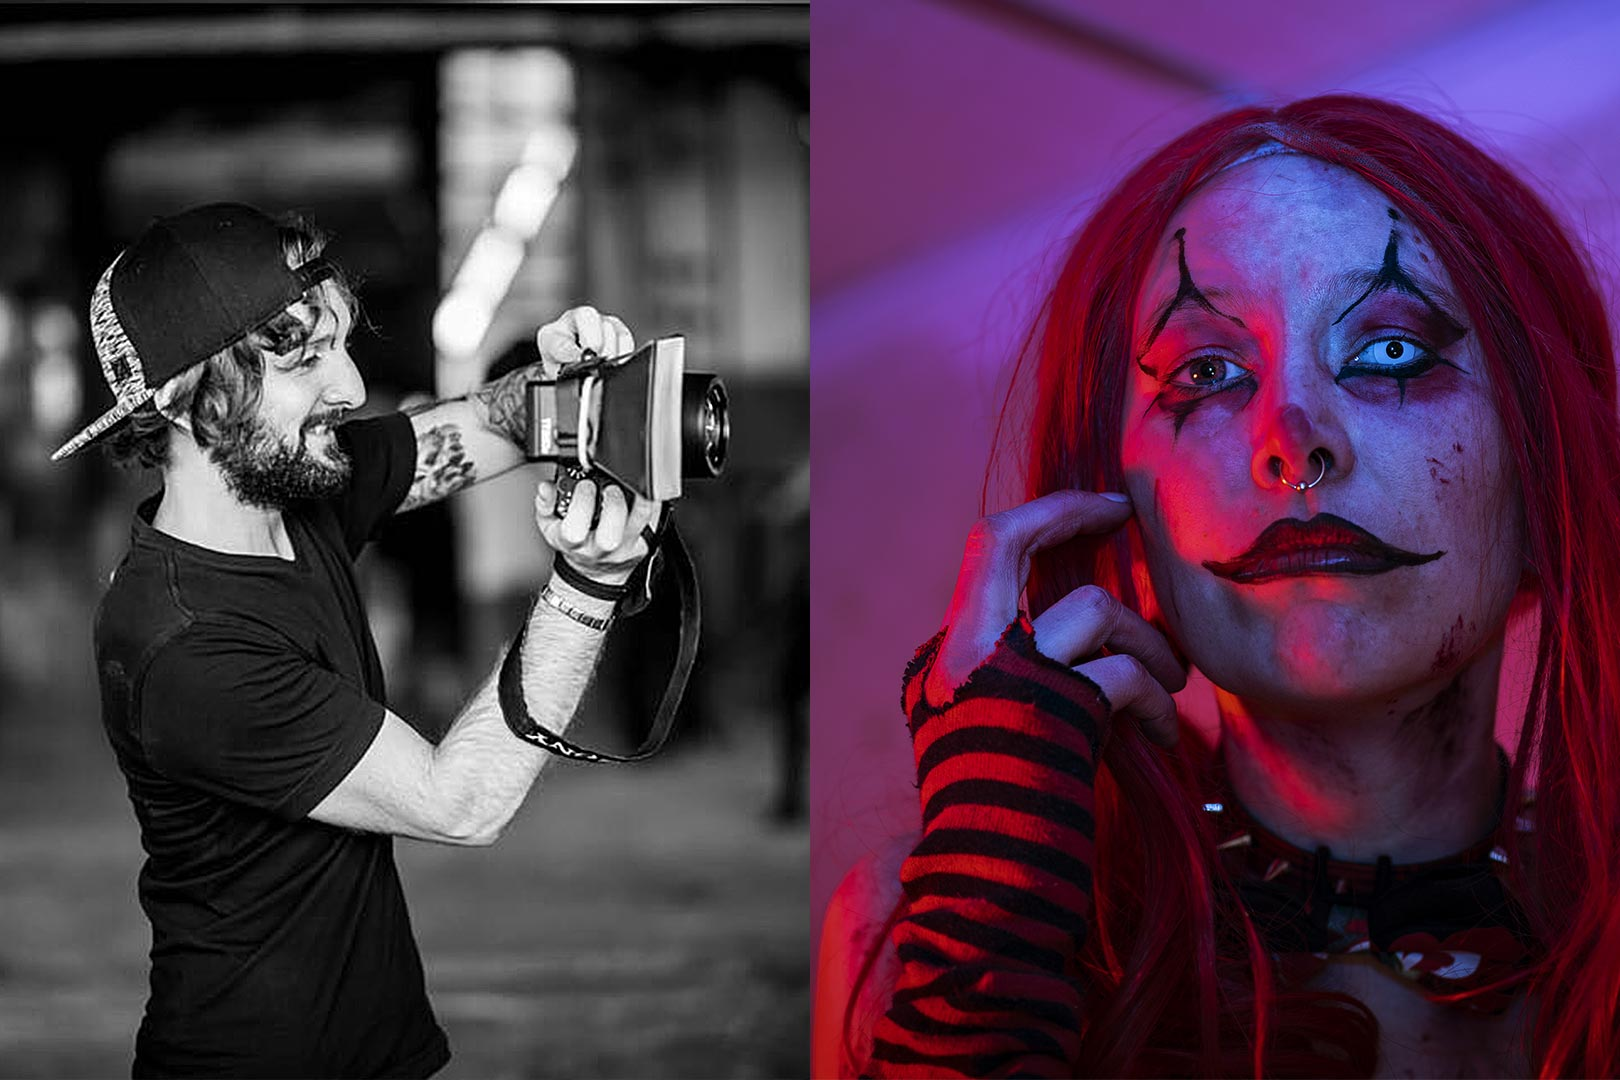
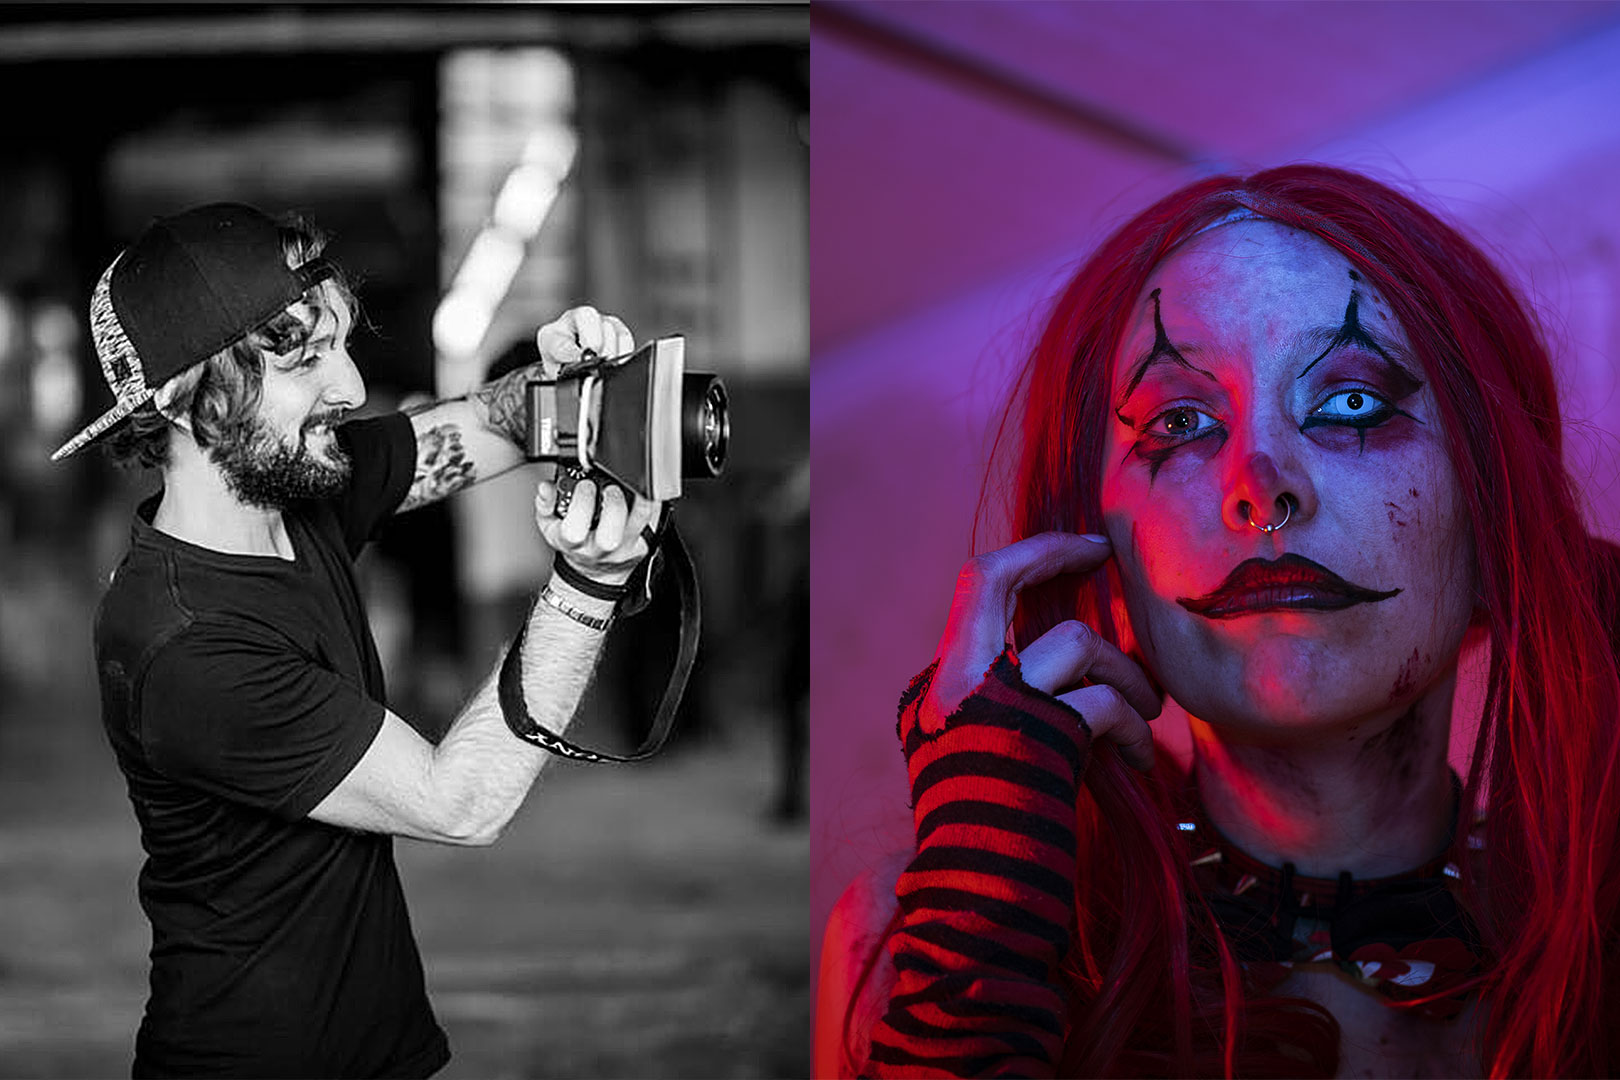
Trabajo con los tamaños de las imagenes para SEO.

Changed region(s): [[0.4938, 0.0, 1.0, 1.0], [0.4938, 0.825, 0.5247, 0.8556]]

diff --git a/css/style.css b/css/style.css
@@ -74,7 +74,7 @@ a {
 
 .parallax, .parallaxDos, .parallaxTres, .parallaxCuatro, .parallaxCinco, .parallaxSeis, .parallaxSiete, .parallaxOcho {
   background-color: black;
-  background-image: linear-gradient(0deg, rgba(0, 0, 0, 0.8) 0%, rgba(0, 0, 0, 0.17) 50%, rgba(0, 0, 0, 0.8) 100%), url(../images/parallax-1.jpg);
+  background-image: linear-gradient(0deg, rgba(0, 0, 0, 0.8) 0%, rgba(0, 0, 0, 0.17) 50%, rgba(0, 0, 0, 0.8) 100%), url(../images/parallax-1-1920.jpg);
   background-attachment: fixed;
   background-size: cover;
   background-position: center;
@@ -82,25 +82,25 @@ a {
   min-height: 90vh; }
 
 .parallaxDos {
-  background-image: linear-gradient(0deg, rgba(0, 0, 0, 0.8) 0%, rgba(0, 0, 0, 0.17) 50%, rgba(0, 0, 0, 0.8) 100%), url(../images/parallax-2.jpg); }
+  background-image: linear-gradient(0deg, rgba(0, 0, 0, 0.8) 0%, rgba(0, 0, 0, 0.17) 50%, rgba(0, 0, 0, 0.8) 100%), url(../images/parallax-2-1920.jpg); }
 
 .parallaxTres {
-  background-image: linear-gradient(0deg, rgba(0, 0, 0, 0.8) 0%, rgba(0, 0, 0, 0.17) 50%, rgba(0, 0, 0, 0.8) 100%), url(../images/parallax-3.jpg); }
+  background-image: linear-gradient(0deg, rgba(0, 0, 0, 0.8) 0%, rgba(0, 0, 0, 0.17) 50%, rgba(0, 0, 0, 0.8) 100%), url(../images/parallax-3-1920.jpg); }
 
 .parallaxCuatro {
-  background-image: linear-gradient(0deg, rgba(0, 0, 0, 0.8) 0%, rgba(0, 0, 0, 0.17) 50%, rgba(0, 0, 0, 0.8) 100%), url(../images/parallax-4.jpg); }
+  background-image: linear-gradient(0deg, rgba(0, 0, 0, 0.8) 0%, rgba(0, 0, 0, 0.17) 50%, rgba(0, 0, 0, 0.8) 100%), url(../images/parallax-4-1920.jpg); }
 
 .parallaxCinco {
-  background-image: linear-gradient(0deg, rgba(0, 0, 0, 0.8) 0%, rgba(0, 0, 0, 0.17) 50%, rgba(0, 0, 0, 0.8) 100%), url(../images/parallax-5.jpg); }
+  background-image: linear-gradient(0deg, rgba(0, 0, 0, 0.8) 0%, rgba(0, 0, 0, 0.17) 50%, rgba(0, 0, 0, 0.8) 100%), url(../images/parallax-5-1920.jpg); }
 
 .parallaxSeis {
-  background-image: linear-gradient(0deg, rgba(0, 0, 0, 0.8) 0%, rgba(0, 0, 0, 0.17) 50%, rgba(0, 0, 0, 0.8) 100%), url(../images/parallax-6.jpg); }
+  background-image: linear-gradient(0deg, rgba(0, 0, 0, 0.8) 0%, rgba(0, 0, 0, 0.17) 50%, rgba(0, 0, 0, 0.8) 100%), url(../images/parallax-6-1920.jpg); }
 
 .parallaxSiete {
-  background-image: linear-gradient(0deg, rgba(0, 0, 0, 0.8) 0%, rgba(0, 0, 0, 0.17) 50%, rgba(0, 0, 0, 0.8) 100%), url(../images/parallax-7.jpg); }
+  background-image: linear-gradient(0deg, rgba(0, 0, 0, 0.8) 0%, rgba(0, 0, 0, 0.17) 50%, rgba(0, 0, 0, 0.8) 100%), url(../images/parallax-7-1920.jpg); }
 
 .parallaxOcho {
-  background-image: linear-gradient(0deg, rgba(0, 0, 0, 0.8) 0%, rgba(0, 0, 0, 0.17) 50%, rgba(0, 0, 0, 0.8) 100%), url(../images/parallax-1.jpg); }
+  background-image: linear-gradient(0deg, rgba(0, 0, 0, 0.8) 0%, rgba(0, 0, 0, 0.17) 50%, rgba(0, 0, 0, 0.8) 100%), url(../images/parallax-1-1920.jpg); }
 
 .gridLayout {
   display: grid;
@@ -116,6 +116,7 @@ main {
   grid-area: footer; }
 
 header .headerBackground {
+  height: 65px;
   background: rgba(0, 0, 0, 0.7);
   z-index: 2; }
 
@@ -554,8 +555,22 @@ header nav a .icon-service-bag {
     font-size: 2.8rem; }
   .formatoLogo {
     width: 120px; }
+  .parallax, .parallaxDos, .parallaxTres, .parallaxCuatro, .parallaxCinco, .parallaxSeis, .parallaxSiete, .parallaxOcho {
+    background-image: linear-gradient(0deg, rgba(0, 0, 0, 0.8) 0%, rgba(0, 0, 0, 0.17) 50%, rgba(0, 0, 0, 0.8) 100%), url(../images/parallax-1-1024.jpg); }
   .parallaxDos {
     background-image: linear-gradient(0deg, rgba(0, 0, 0, 0.8) 0%, rgba(0, 0, 0, 0.17) 50%, rgba(0, 0, 0, 0.8) 100%), url(../images/maxi_perfil_parallax.jpg); }
+  .parallaxTres {
+    background-image: linear-gradient(0deg, rgba(0, 0, 0, 0.8) 0%, rgba(0, 0, 0, 0.17) 50%, rgba(0, 0, 0, 0.8) 100%), url(../images/parallax-3-1024.jpg); }
+  .parallaxCuatro {
+    background-image: linear-gradient(0deg, rgba(0, 0, 0, 0.8) 0%, rgba(0, 0, 0, 0.17) 50%, rgba(0, 0, 0, 0.8) 100%), url(../images/parallax-4-1024.jpg); }
+  .parallaxCinco {
+    background-image: linear-gradient(0deg, rgba(0, 0, 0, 0.8) 0%, rgba(0, 0, 0, 0.17) 50%, rgba(0, 0, 0, 0.8) 100%), url(../images/parallax-5-1024.jpg); }
+  .parallaxSeis {
+    background-image: linear-gradient(0deg, rgba(0, 0, 0, 0.8) 0%, rgba(0, 0, 0, 0.17) 50%, rgba(0, 0, 0, 0.8) 100%), url(../images/parallax-6-1024.jpg); }
+  .parallaxSiete {
+    background-image: linear-gradient(0deg, rgba(0, 0, 0, 0.8) 0%, rgba(0, 0, 0, 0.17) 50%, rgba(0, 0, 0, 0.8) 100%), url(../images/parallax-7-1024.jpg); }
+  .parallaxOcho {
+    background-image: linear-gradient(0deg, rgba(0, 0, 0, 0.8) 0%, rgba(0, 0, 0, 0.17) 50%, rgba(0, 0, 0, 0.8) 100%), url(../images/parallax-1-1024.jpg); }
   .copyright {
     letter-spacing: 0px; }
   .contamediact {
@@ -565,7 +580,13 @@ header nav a .icon-service-bag {
     display: none; }
   .posicionDer {
     padding: 5%;
-    background-color: rgba(0, 0, 0, 0.75); }
+    background-color: rgba(0, 0, 0, 0.75);
+    align-items: center; }
+    .posicionDer p {
+      font-size: 1.4rem;
+      letter-spacing: 1px;
+      line-height: 19px;
+      text-align: justify; }
   /* fin de index */
   /* galeria */
   .bloqueImgGaleria .capa {
@@ -606,7 +627,7 @@ header nav a .icon-service-bag {
       letter-spacing: 1px;
       border: solid 1px white; } }
 
-@media only screen and (max-width: 992px) {
+@media only screen and (max-width: 991px) {
   .posicionIzq img {
     display: none; }
   .posicionIzq h2 {

diff --git a/index.html b/index.html
@@ -21,7 +21,7 @@
             <nav class="navbar navbar-expand-lg navbar-dark headerBackground py-0">
                 <div class="container-xl px-5 px-xl-0 fs-4">
                     <a class="navbar-brand pe-sm-0 mx-auto me-md-auto" href="#"><img class="formatoLogo"
-                            src="./images/firmay-3-blanco.png" alt="Logo de marca"></a>
+                            src="./images/firmay-3-blanco-small.png" alt="Logo de marca"></a>
                     <button class="navbar-toggler" type="button" data-bs-toggle="collapse" data-bs-target="#navbarText"
                         aria-controls="navbarText" aria-expanded="false" aria-label="Toggle navigation">
                         <span class="navbar-toggler-icon"></span>
@@ -100,7 +100,7 @@
                         <div class="col-12 col-lg-6">
                             <div class="wow posicionIzq animate__animated animate__fadeIn">
                                 <h2 class="pb-1">Título</h2>
-                                <img src="./images/Line 2-corta-3px.png" alt="">
+                                <img src="./images/Line 2-corta-3px.png" alt="línea de subrayado">
                                 <p>Lorem ipsum dolor sit amet consectetur adipisicing elit. Debitis voluptatibus modi, doloremque iure nisi quo vero ratione inventore nostrum? Nobis quaerat corporis hic porro nihil. </p> 
                             </div>
                         </div>
@@ -118,25 +118,25 @@
                             </div>
                             <div class="carousel-inner img-zoom">
                                 <div class="carousel-item active">
-                                    <a href="./pages/galeria.html"><img src="./images/DSC05837_edit3.jpg" class="d-block w-100 carruselImg posicionRelativa" alt="Fotografía de álbum uno"></a>
+                                    <a href="./pages/galeria.html"><img src="./images/carrusel-1.jpg" class="d-block w-100 carruselImg posicionRelativa" alt="Fotografía de álbum uno"></a>
                                     <!-- <div class="carousel-caption d-none d-md-block">
                                         <p class="fs-3 pb-3">Click en la imagen para ver el álbum</p>
                                     </div> -->
                                 </div>
                                 <div class="carousel-item">
-                                    <a href="./pages/galeria.html"><img src="./images/DSC_3404_edit3.jpg" class="d-block w-100 carruselImg" alt="Fotografía de álbum dos"></a>
+                                    <a href="./pages/galeria.html"><img src="./images/carrusel-2.jpg" class="d-block w-100 carruselImg" alt="Fotografía de álbum dos"></a>
                                     <!-- <div class="carousel-caption d-none d-md-block">
                                         <h5 class="fs-3 pb-3">Second slide label</h5>
                                     </div> -->
                                 </div>
                                 <div class="carousel-item">
-                                    <a href="./pages/galeria.html"><img src="./images/DSC_3773_edit3.jpg" class="d-block w-100 carruselImg" alt="Fotografía de álbum tres"></a>
+                                    <a href="./pages/galeria.html"><img src="./images/carrusel-3.jpg" class="d-block w-100 carruselImg" alt="Fotografía de álbum tres"></a>
                                     <!-- <div class="carousel-caption d-none d-md-block">
                                         <h5 class="fs-3 pb-3">Third slide label</h5>
                                     </div> -->
                                 </div>
                                 <div class="carousel-item">
-                                    <a href="./pages/galeria.html"><img src="./images/DSC_8051_edit3.jpg" class="d-block w-100 carruselImg" alt="Fotografía de álbum cuatro"></a>
+                                    <a href="./pages/galeria.html"><img src="./images/carrusel-4.jpg" class="d-block w-100 carruselImg" alt="Fotografía de álbum cuatro"></a>
                                     <!-- <div class="carousel-caption d-none d-md-block">
                                         <h5 class="fs-3 pb-3">Third slide label</h5>
                                     </div> -->

diff --git a/pages/galeria.html b/pages/galeria.html
@@ -20,7 +20,7 @@
         <div class="fixed-top">
             <nav class="navbar navbar-expand-lg navbar-dark headerBackground py-0">
                 <div class="container-xl fs-4 px-5 px-xl-0">
-                    <a class="navbar-brand pe-sm-0 mx-auto me-md-auto" href="../index.html"><img class="formatoLogo" src="../images/firmay-3-blanco.png" alt="Logo"></a>
+                    <a class="navbar-brand pe-sm-0 mx-auto me-md-auto" href="../index.html"><img class="formatoLogo" src="../images/firmay-3-blanco-small.png" alt="Logo"></a>
                     <button class="navbar-toggler" type="button" data-bs-toggle="collapse" data-bs-target="#navbarText" aria-controls="navbarText" aria-expanded="false" aria-label="Toggle navigation">
                         <span class="navbar-toggler-icon"></span>
                     </button>
@@ -86,42 +86,42 @@
                 <h2>· Fotografías ·</h2>
                 <section class="marginTop paddingBottom gridFotos">
                     <div class="bloqueImgGaleria imagen1">
-                        <img src="../images/DSC05837_edit3.jpg" alt="Fotografía de álbum 1">
+                        <img src="../images/grid-galeria-1.jpg" alt="Fotografía de álbum 1">
                         <div class="capa">
                             <a href="../pages/galeria.html">VER ÁLBUM</a>
                         </div>
                     </div>
 
                     <div class="bloqueImgGaleria imagen2">
-                        <img src="../images/DSC_3405_grid_vertical.jpg" alt="Fotografía de álbum 2">
+                        <img src="../images/grid-galeria-2.jpg" alt="Fotografía de álbum 2">
                         <div class="capa">
                             <a href="../pages/galeria.html">VER ÁLBUM</a>
                         </div>
                     </div>
 
                     <div class="bloqueImgGaleria imagen3">
-                        <img src="../images/DSC03367_edit3.jpg" alt="Fotografía de álbum 3">
+                        <img src="../images/grid-galeria-3.jpg" alt="Fotografía de álbum 3">
                         <div class="capa">
                             <a href="../pages/galeria.html">VER ÁLBUM</a>
                         </div>
                     </div>
 
                     <div class="bloqueImgGaleria imagen4">
-                        <img src="../images/DSC_6989_edit3.jpg" alt="Fotografía de álbum 4">
+                        <img src="../images/grid-galeria-4.jpg" alt="Fotografía de álbum 4">
                         <div class="capa">
                             <a href="../pages/galeria.html">VER ÁLBUM</a>
                         </div>
                     </div>
 
                     <div class="bloqueImgGaleria imagen5">
-                        <img src="../images/DSC_3751_grid_vertical.jpg" alt="Fotografía de álbum 5">
+                        <img src="../images/grid-galeria-5.jpg" alt="Fotografía de álbum 5">
                         <div class="capa">
                             <a href="../pages/galeria.html">VER ÁLBUM</a>
                         </div>
                     </div>
 
                     <div class="bloqueImgGaleria imagen6">
-                        <img src="../images/DSC_8051_edit3.jpg" alt="Fotografía de álbum 6">
+                        <img src="../images/grid-galeria-6.jpg" alt="Fotografía de álbum 6">
                         <div class="capa">
                             <a href="../pages/galeria.html">VER ÁLBUM</a>
                         </div>

diff --git a/scss/base/_estilosGenerales.scss b/scss/base/_estilosGenerales.scss
@@ -91,7 +91,7 @@ a{
 
 .parallax {
     background-color: map-get($colores, bg-color-negro);
-    background-image: map-get($colores, gradiente-parallax), url(../images/parallax-1.jpg);
+    background-image: map-get($colores, gradiente-parallax), url(../images/parallax-1-1920.jpg);
     background-attachment: fixed;
     background-size: cover;
     background-position: center;
@@ -101,35 +101,35 @@ a{
 
 .parallaxDos {
     @extend .parallax;
-    background-image: map-get($colores, gradiente-parallax), url(../images/parallax-2.jpg);
+    background-image: map-get($colores, gradiente-parallax), url(../images/parallax-2-1920.jpg);
 }
 
 .parallaxTres{
     @extend .parallax;
-    background-image: map-get($colores, gradiente-parallax), url(../images/parallax-3.jpg); 
+    background-image: map-get($colores, gradiente-parallax), url(../images/parallax-3-1920.jpg); 
 }
 
 .parallaxCuatro{
     @extend .parallax;
-    background-image: map-get($colores, gradiente-parallax), url(../images/parallax-4.jpg); 
+    background-image: map-get($colores, gradiente-parallax), url(../images/parallax-4-1920.jpg); 
 }
 
 .parallaxCinco{
     @extend .parallax;
-    background-image: map-get($colores, gradiente-parallax), url(../images/parallax-5.jpg);
+    background-image: map-get($colores, gradiente-parallax), url(../images/parallax-5-1920.jpg);
 }
 
 .parallaxSeis{
     @extend .parallax;
-    background-image: map-get($colores, gradiente-parallax), url(../images/parallax-6.jpg); 
+    background-image: map-get($colores, gradiente-parallax), url(../images/parallax-6-1920.jpg); 
 }
 
 .parallaxSiete{
     @extend .parallax;
-    background-image: map-get($colores, gradiente-parallax), url(../images/parallax-7.jpg);  
+    background-image: map-get($colores, gradiente-parallax), url(../images/parallax-7-1920.jpg);  
 }
 
 .parallaxOcho{
     @extend .parallax;
-    background-image: map-get($colores, gradiente-parallax), url(../images/parallax-1.jpg);
+    background-image: map-get($colores, gradiente-parallax), url(../images/parallax-1-1920.jpg);
 }

diff --git a/scss/utilidades/_mediaqueries.scss b/scss/utilidades/_mediaqueries.scss
@@ -13,8 +13,36 @@
         width: 120px;
     }
 
+    .parallax {
+        background-image: map-get($colores, gradiente-parallax), url(../images/parallax-1-1024.jpg);
+    }
+
     .parallaxDos {
         background-image: map-get($colores, gradiente-parallax), url(../images/maxi_perfil_parallax.jpg);
+    }
+
+    .parallaxTres {
+        background-image: map-get($colores, gradiente-parallax), url(../images/parallax-3-1024.jpg);
+    }
+
+    .parallaxCuatro {
+        background-image: map-get($colores, gradiente-parallax), url(../images/parallax-4-1024.jpg);
+    }
+
+    .parallaxCinco {
+        background-image: map-get($colores, gradiente-parallax), url(../images/parallax-5-1024.jpg);
+    }
+
+    .parallaxSeis {
+        background-image: map-get($colores, gradiente-parallax), url(../images/parallax-6-1024.jpg);
+    }
+
+    .parallaxSiete {
+        background-image: map-get($colores, gradiente-parallax), url(../images/parallax-7-1024.jpg);
+    }
+
+    .parallaxOcho {
+        background-image: map-get($colores, gradiente-parallax), url(../images/parallax-1-1024.jpg);
     }
 
     .copyright {
@@ -33,6 +61,13 @@
     .posicionDer {
         padding: 5%;
         background-color: rgba(0, 0, 0, 0.75);
+        align-items: center;
+        p{
+            font-size: 1.4rem;
+            letter-spacing: 1px;
+            line-height: 19px;
+            text-align: justify;
+        }
     }
 
     /* fin de index */
@@ -97,7 +132,7 @@
     }
 }
 
-@media only screen and (max-width: 992px) {
+@media only screen and (max-width: 991px) {
     .posicionIzq {
         img {
             display: none;
@@ -141,10 +176,10 @@
     }
 
     /* header */
-    header{
-       .headerBackground{
-        background: rgb(0, 0, 0);
-       } 
+    header {
+        .headerBackground {
+            background: rgb(0, 0, 0);
+        }
     }
 
     .navRedes {

diff --git a/pages/carritoCompras.html b/pages/carritoCompras.html
@@ -20,7 +20,7 @@
         <div class="fixed-top">
             <nav class="navbar navbar-expand-lg navbar-dark headerBackground py-0">
                 <div class="container-xl fs-4 px-5 px-xl-0">
-                    <a class="navbar-brand pe-sm-0 mx-auto me-md-auto" href="../index.html"><img class="formatoLogo" src="../images/firmay-3-blanco.png" alt="Logo"></a>
+                    <a class="navbar-brand pe-sm-0 mx-auto me-md-auto" href="../index.html"><img class="formatoLogo" src="../images/firmay-3-blanco-small.png" alt="Logo"></a>
                     <button class="navbar-toggler" type="button" data-bs-toggle="collapse" data-bs-target="#navbarText" aria-controls="navbarText" aria-expanded="false" aria-label="Toggle navigation">
                         <span class="navbar-toggler-icon"></span>
                     </button>

diff --git a/pages/contacto.html b/pages/contacto.html
@@ -20,7 +20,7 @@
         <div class="fixed-top">
             <nav class="navbar navbar-expand-lg navbar-dark headerBackground py-0">
                 <div class="container-xl fs-4 px-5 px-xl-0">
-                    <a class="navbar-brand pe-sm-0 mx-auto me-md-auto" href="../index.html"><img class="formatoLogo" src="../images/firmay-3-blanco.png" alt="Logo"></a>
+                    <a class="navbar-brand pe-sm-0 mx-auto me-md-auto" href="../index.html"><img class="formatoLogo" src="../images/firmay-3-blanco-small.png" alt="Logo"></a>
                     <button class="navbar-toggler" type="button" data-bs-toggle="collapse" data-bs-target="#navbarText" aria-controls="navbarText" aria-expanded="false" aria-label="Toggle navigation">
                         <span class="navbar-toggler-icon"></span>
                     </button>

diff --git a/pages/servicios.html b/pages/servicios.html
@@ -20,7 +20,7 @@
         <div class="fixed-top">
             <nav class="navbar navbar-expand-lg navbar-dark headerBackground py-0">
                 <div class="container-xl fs-4 px-5 px-xl-0">
-                    <a class="navbar-brand pe-sm-0 mx-auto me-md-auto" href="../index.html"><img class="formatoLogo" src="../images/firmay-3-blanco.png" alt="Logo"></a>
+                    <a class="navbar-brand pe-sm-0 mx-auto me-md-auto" href="../index.html"><img class="formatoLogo" src="../images/firmay-3-blanco-small.png" alt="Logo"></a>
                     <button class="navbar-toggler" type="button" data-bs-toggle="collapse" data-bs-target="#navbarText" aria-controls="navbarText" aria-expanded="false" aria-label="Toggle navigation">
                         <span class="navbar-toggler-icon"></span>
                     </button>

diff --git a/pages/sobreMi.html b/pages/sobreMi.html
@@ -20,7 +20,7 @@
         <div class="fixed-top">
             <nav class="navbar navbar-expand-lg navbar-dark headerBackground py-0">
                 <div class="container-xl fs-4 px-5 px-xl-0">
-                    <a class="navbar-brand pe-sm-0 mx-auto me-md-auto" href="../index.html"><img class="formatoLogo" src="../images/firmay-3-blanco.png" alt="Logo"></a>
+                    <a class="navbar-brand pe-sm-0 mx-auto me-md-auto" href="../index.html"><img class="formatoLogo" src="../images/firmay-3-blanco-small.png" alt="Logo"></a>
                     <button class="navbar-toggler" type="button" data-bs-toggle="collapse" data-bs-target="#navbarText" aria-controls="navbarText" aria-expanded="false" aria-label="Toggle navigation">
                         <span class="navbar-toggler-icon"></span>
                     </button>

diff --git a/pages/tienda.html b/pages/tienda.html
@@ -20,7 +20,7 @@
         <div class="fixed-top">
             <nav class="navbar navbar-expand-lg navbar-dark headerBackground py-0">
                 <div class="container-xl fs-4 px-5 px-xl-0">
-                    <a class="navbar-brand pe-sm-0 mx-auto me-md-auto" href="../index.html"><img class="formatoLogo" src="../images/firmay-3-blanco.png" alt="Logo"></a>
+                    <a class="navbar-brand pe-sm-0 mx-auto me-md-auto" href="../index.html"><img class="formatoLogo" src="../images/firmay-3-blanco-small.png" alt="Logo"></a>
                     <button class="navbar-toggler" type="button" data-bs-toggle="collapse" data-bs-target="#navbarText" aria-controls="navbarText" aria-expanded="false" aria-label="Toggle navigation">
                         <span class="navbar-toggler-icon"></span>
                     </button>

diff --git a/scss/layout/_header.scss b/scss/layout/_header.scss
@@ -1,5 +1,6 @@
 header {
     .headerBackground {
+        height: 65px;
         background: rgba(0, 0, 0, 0.7);
         z-index: 2;
     }
